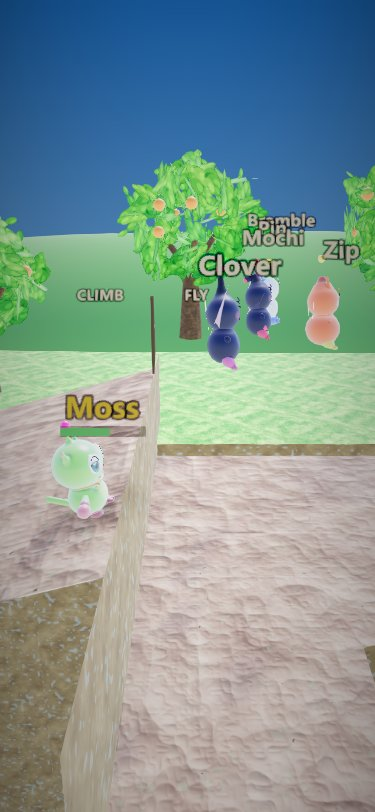
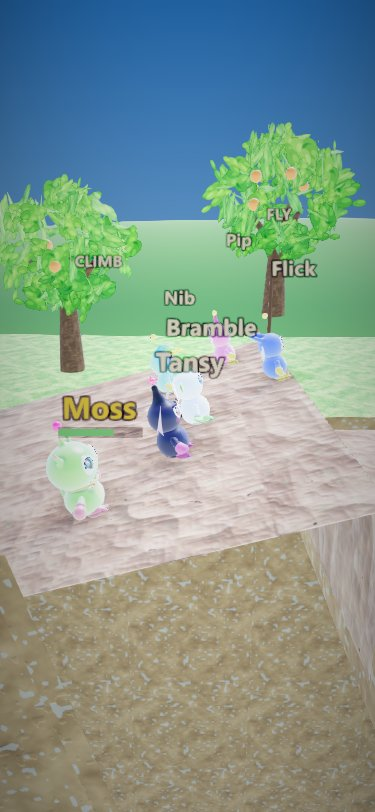
Lay race name tags out in screen space so none overlap
Each tag and visible section sign is projected through the frame's
camera (after it has moved) to a pixel rectangle of its rendered size;
stackTags lifts crowded cards apart, nearest racer first, and the lift
goes back to world units at that card's depth with a correction for the
tilted camera (two passes). Tested with a crowded case.

diff --git a/src/render3d/race-3d.ts b/src/render3d/race-3d.ts
@@ -10,7 +10,15 @@ import { el } from '../ui/dom';
 import { nubbinLook, type Look } from './creature-pool';
 import { gaitTime } from './gait';
 import type { Grove3dScene } from './grove-3d-scene';
-import { laneZ, racerY, sectionSpans, trackHeight, type SectionSpan } from './minigame-layout';
+import {
+  laneZ,
+  racerY,
+  sectionSpans,
+  stackTags,
+  trackHeight,
+  type SectionSpan,
+  type TagRect,
+} from './minigame-layout';
 import { MiniStage } from './minigame-stage';
 import { waterMaterial, waterNormal } from './water';
 
@@ -48,10 +56,11 @@ export class Race3dView implements RaceView {
   private sceneryReady = false;
   private lastMs = 0;
   private camX = 0;
-  private signs: { sprite: THREE.Sprite; x: number; start: number; end: number }[] = [];
+  private signs: { sprite: THREE.Sprite; x: number; y: number; start: number; end: number }[] = [];
   /** This frame's tag anchors (x, y over the head, z), laid out after every racer is placed. */
   private readonly anchors: { r: Runner; x: number; y: number; z: number }[] = [];
   private readonly at = new THREE.Vector3();
+  private readonly v = new THREE.Vector3();
 
   constructor(private readonly host: Grove3dScene) {
     // The 3D race keeps its HUD in the screen's own elements; this holds nothing yet.
@@ -139,7 +148,6 @@ export class Race3dView implements RaceView {
     const leader = this.runners.reduce((a, b) => (b.racer.pos > a.racer.pos ? b : a), player);
     this.anchors.length = 0;
     for (const r of this.runners) this.placeRunner(race, r, nowMs, dt);
-    this.layoutTags();
 
     const cam = RACE3D.camera;
     // Lean toward the leader, but never so far that the player leaves the left third of
@@ -156,7 +164,10 @@ export class Race3dView implements RaceView {
     const midLane = laneZ((this.runners.length - 1) / 2);
     const y = trackHeight(this.spans, this.camX / U) + cam.lookHeight;
     stage.aim(this.camX + cam.lookAhead, y, midLane, cam.pitchDeg, dt);
+    // The signs settle first, then the tags are laid out (with the signs) against this
+    // frame's camera, after it has moved.
     this.placeSigns(this.camX + cam.lookAhead, stage.halfSpan);
+    this.layoutTags(stage);
     stage.render(nowMs, (x) => trackHeight(this.spans, x / U));
   }
 
@@ -244,35 +255,64 @@ export class Race3dView implements RaceView {
   }
 
   /**
-   * Lay the tags out so none overlap on screen: in screen terms a tag sits higher the
-   * farther its lane (the camera looks down by `pitchDeg`), so each tag is placed from
-   * the nearest lane out and lifted above any already-placed tag it would cover.
+   * Lay the tags and the visible section signs out so no two overlap on screen: each is
+   * projected through this frame's camera to a pixel rectangle of its rendered size,
+   * `stackTags` lifts the crowded ones apart, and each lift goes back to world units at
+   * that card's depth.
    */
-  private layoutTags(): void {
-    const { width, height, gap } = RACE3D.nameTag;
-    const rise = Math.sin((RACE3D.camera.pitchDeg * Math.PI) / 180);
-    const placed: { x: number; sy: number }[] = [];
-    this.anchors.sort((a, b) => b.z - a.z);
-    for (const a of this.anchors) {
-      let sy = a.y - a.z * rise;
-      // Lifting past one tag can land on another: go round until nothing moves.
-      for (let moved = true, n = 0; moved && n < 16; n++) {
-        moved = false;
-        for (const p of placed) {
-          if (
-            Math.abs(p.x - a.x) < width * 0.95 &&
-            sy < p.sy + height * gap &&
-            sy > p.sy - height * gap
-          ) {
-            sy = p.sy + height * gap;
-            moved = true;
-          }
-        }
-      }
-      placed.push({ x: a.x, sy });
-      const y = sy + a.z * rise;
-      this.placeTagAt(a.r, a.x, y, a.z);
+  private layoutTags(stage: MiniStage): void {
+    const { width, height } = RACE3D.nameTag;
+    const cam = stage.camera;
+    cam.updateMatrixWorld();
+    const size = stage.renderer.getSize(new THREE.Vector2());
+    const rects: TagRect[] = [];
+    const pxPerUnit: number[] = [];
+    const cards: { x: number; y: number; z: number; w: number; h: number }[] = this.anchors.map(
+      (a) => ({ x: a.x, y: a.y, z: a.z, w: width, h: height }),
+    );
+    const signs = this.signs.filter((s) => s.sprite.visible);
+    for (const s of signs) {
+      const p = s.sprite.position;
+      cards.push({ x: p.x, y: s.y, z: p.z, w: s.sprite.scale.x, h: s.sprite.scale.y });
     }
+    // A sprite is centred on its position: project its bottom and top edges. The tilted
+    // camera draws a raised card a little larger, so the cards are measured where they
+    // ended up and stacked again: two passes settle it.
+    const measure = (a: (typeof cards)[number], at: number): TagRect => {
+      this.v.set(a.x, at - a.h / 2, a.z).project(cam);
+      const x = ((this.v.x + 1) / 2) * size.x;
+      const bottom = ((1 - this.v.y) / 2) * size.y;
+      this.v.set(a.x, at + a.h / 2, a.z).project(cam);
+      const top = ((1 - this.v.y) / 2) * size.y;
+      const h = Math.max(1, bottom - top);
+      return { x, y: (top + bottom) / 2, w: (h * a.w) / a.h, h };
+    };
+    let lifted = cards.map((a) => a.y);
+    for (let pass = 0; pass < 2; pass++) {
+      rects.length = 0;
+      pxPerUnit.length = 0;
+      cards.forEach((a, i) => {
+        const base = measure(a, a.y);
+        const now = measure(a, lifted[i]!);
+        // Where the card would sit unlifted, at the size it has where it is.
+        rects.push({ x: base.x, y: base.y, w: now.w, h: now.h });
+        pxPerUnit.push(now.h / a.h);
+      });
+      const lift = stackTags(rects, 3);
+      // Back to world units: an estimate from the local scale, then one correction
+      // against the real projection.
+      lifted = cards.map((a, i) => {
+        if (lift[i]! <= 0) return a.y;
+        let y = a.y + lift[i]! / pxPerUnit[i]!;
+        const want = rects[i]!.y - lift[i]!;
+        y += (measure(a, y).y - want) / pxPerUnit[i]!;
+        return y;
+      });
+    }
+    this.anchors.forEach((a, i) => this.placeTagAt(a.r, a.x, lifted[i]!, a.z));
+    signs.forEach((s, j) => {
+      s.sprite.position.y = lifted[this.anchors.length + j]!;
+    });
   }
 
   private placeTagAt(r: Runner, x: number, y: number, z: number): void {
@@ -379,7 +419,7 @@ export class Race3dView implements RaceView {
         fontPx: 48,
       });
       sign.position.set(x0 + 1.1, Math.max(s.y0, s.y1) + RACE3D.signHeight, zBack + 0.6);
-      this.signs.push({ sprite: sign, x: x0 + 1.1, start: x0, end: x1 });
+      this.signs.push({ sprite: sign, x: x0 + 1.1, y: sign.position.y, start: x0, end: x1 });
       const post = new THREE.Mesh(
         new THREE.CylinderGeometry(0.05, 0.05, 1.6, 6),
         new THREE.MeshStandardMaterial({ color: '#5a3c28', roughness: 0.9 }),

diff --git a/tests/render/minigame-3d.test.ts b/tests/render/minigame-3d.test.ts
@@ -11,6 +11,7 @@ import {
   runnerWorld,
   sectionSpans,
   selectMinigameView,
+  stackTags,
   thingWorld,
   trackHeight,
 } from '../../src/render3d/minigame-layout';
@@ -134,5 +135,49 @@ describe('chase camera framing', () => {
     expect(x).toBeGreaterThan(9.9);
     expect(x).toBeLessThanOrEqual(10);
     expect(ease(5, 5, 7, 0.1)).toBe(5);
+  });
+});
+
+describe('name tag stacking', () => {
+  const intersects = (a: { x: number; y: number; w: number; h: number }, b: typeof a) =>
+    Math.abs(a.x - b.x) < (a.w + b.w) / 2 && Math.abs(a.y - b.y) < (a.h + b.h) / 2;
+
+  it('leaves tags that are already apart where they are', () => {
+    const tags = [
+      { x: 100, y: 300, w: 80, h: 20 },
+      { x: 300, y: 300, w: 80, h: 20 },
+      { x: 100, y: 200, w: 80, h: 20 },
+    ];
+    expect(stackTags(tags)).toEqual([0, 0, 0]);
+  });
+
+  it('lifts a crowd at one point apart, nearest (lowest) tag staying put', () => {
+    const tags = [
+      { x: 200, y: 240, w: 90, h: 24 },
+      { x: 204, y: 236, w: 70, h: 24 },
+      { x: 198, y: 232, w: 80, h: 24 },
+      { x: 202, y: 228, w: 60, h: 24 },
+    ];
+    const lift = stackTags(tags, 2);
+    expect(lift[0]).toBe(0);
+    const placed = tags.map((t, i) => ({ ...t, y: t.y - lift[i]! }));
+    for (let i = 0; i < placed.length; i++)
+      for (let j = i + 1; j < placed.length; j++)
+        expect(intersects(placed[i]!, placed[j]!)).toBe(false);
+    for (const l of lift) expect(l).toBeGreaterThanOrEqual(0);
+  });
+
+  it('clears a tag it lands on after a first lift', () => {
+    // Two tags apart, a third between them wide enough to touch both.
+    const tags = [
+      { x: 100, y: 300, w: 80, h: 20 },
+      { x: 100, y: 270, w: 80, h: 20 },
+      { x: 110, y: 296, w: 120, h: 20 },
+    ];
+    const lift = stackTags(tags, 2);
+    const placed = tags.map((t, i) => ({ ...t, y: t.y - lift[i]! }));
+    for (let i = 0; i < placed.length; i++)
+      for (let j = i + 1; j < placed.length; j++)
+        expect(intersects(placed[i]!, placed[j]!)).toBe(false);
   });
 });

diff --git a/src/render3d/minigame-layout.ts b/src/render3d/minigame-layout.ts
@@ -117,6 +117,46 @@ export function racerY(kind: SectionKind, trackY: number, resting: boolean): num
   return trackY;
 }
 
+// ---------------------------------------------------------------- name tags
+
+export interface TagRect {
+  /** Centre and size on screen, in pixels (y down). */
+  x: number;
+  y: number;
+  w: number;
+  h: number;
+}
+
+/**
+ * Lift name tags so no two screen rectangles intersect: the lowest tag on screen (the
+ * nearest racer) keeps its place, each higher one is raised until it clears every tag
+ * already placed, and a lift that lands on another tag is raised again. Returns the lift
+ * per tag in pixels (0 or more, up the screen), in the input order.
+ */
+export function stackTags(tags: TagRect[], gapPx = 2): number[] {
+  const order = tags.map((t, i) => i).sort((a, b) => tags[b]!.y - tags[a]!.y);
+  const placed: TagRect[] = [];
+  const lift = tags.map(() => 0);
+  for (const i of order) {
+    const t = tags[i]!;
+    let y = t.y;
+    for (let moved = true, n = 0; moved && n < 32; n++) {
+      moved = false;
+      for (const p of placed) {
+        const dx = Math.abs(p.x - t.x);
+        const dy = Math.abs(p.y - y);
+        if (dx < (p.w + t.w) / 2 && dy < (p.h + t.h) / 2 + gapPx) {
+          y = p.y - (p.h + t.h) / 2 - gapPx;
+          moved = true;
+        }
+      }
+    }
+    placed.push({ x: t.x, y, w: t.w, h: t.h });
+    lift[i] = t.y - y;
+  }
+  return lift;
+}
+
 // ---------------------------------------------------------------- camera
 
 export interface CameraFrame {

diff --git a/PROGRESS.md b/PROGRESS.md
@@ -48,7 +48,8 @@ and hopping with the gait clock, hit blink, dust and sparkle bursts and a camera
 under reduced motion). Race sections as grass, worn earth, a sunk water channel, a rock
 gully to fly over and a rock ramp that stays up, all on painted earth skirts and walls
 down past the frame; signs that slide to stay whole on screen; finish posts and banner;
-name tags laid out each frame so none overlap (screen-space nudge, nearest lane first);
+name tags and section signs laid out each frame against the camera so no two screen
+rectangles intersect (`stackTags`, projected and measured in pixels, two passes);
 the player's stamina bar; rest as the sleep pose; cheer sparkles; the camera leaning
 toward the leader but keeping the player in the left half. Rival rigs are discarded from
 the pool when a race ends (`CreaturePool.discard`). Frame times on Maor's PC, hand-driven
